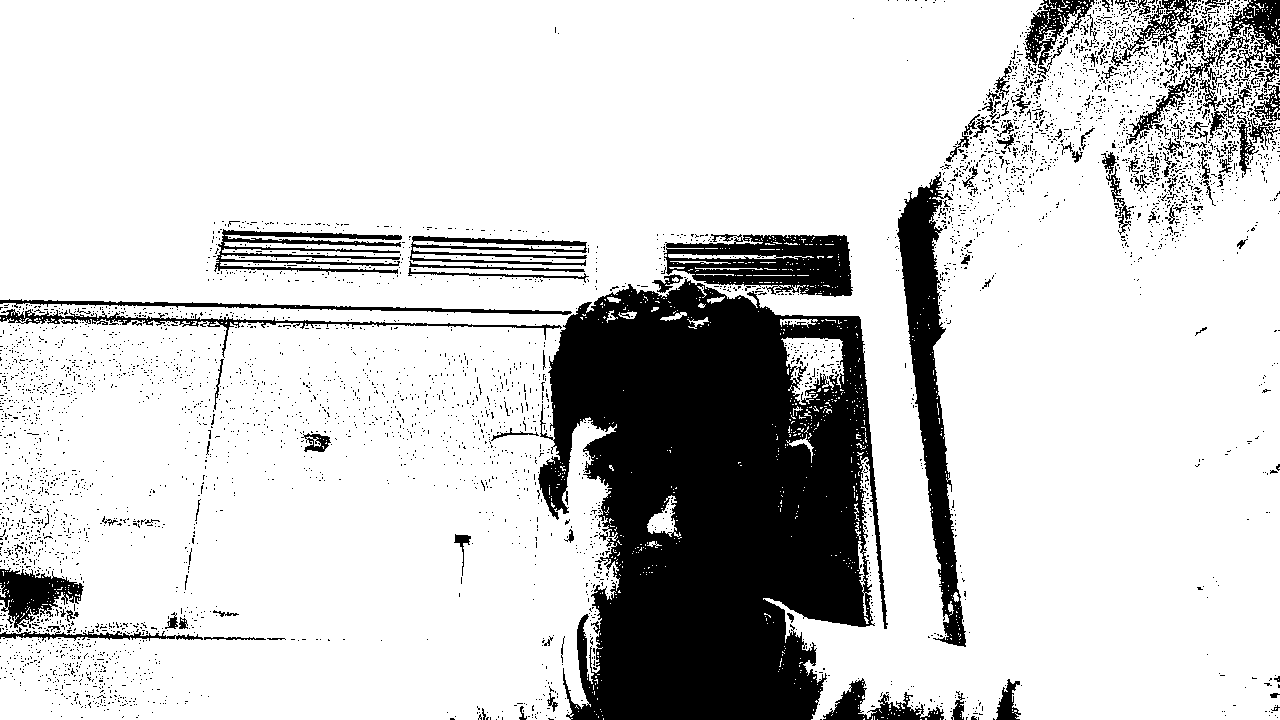
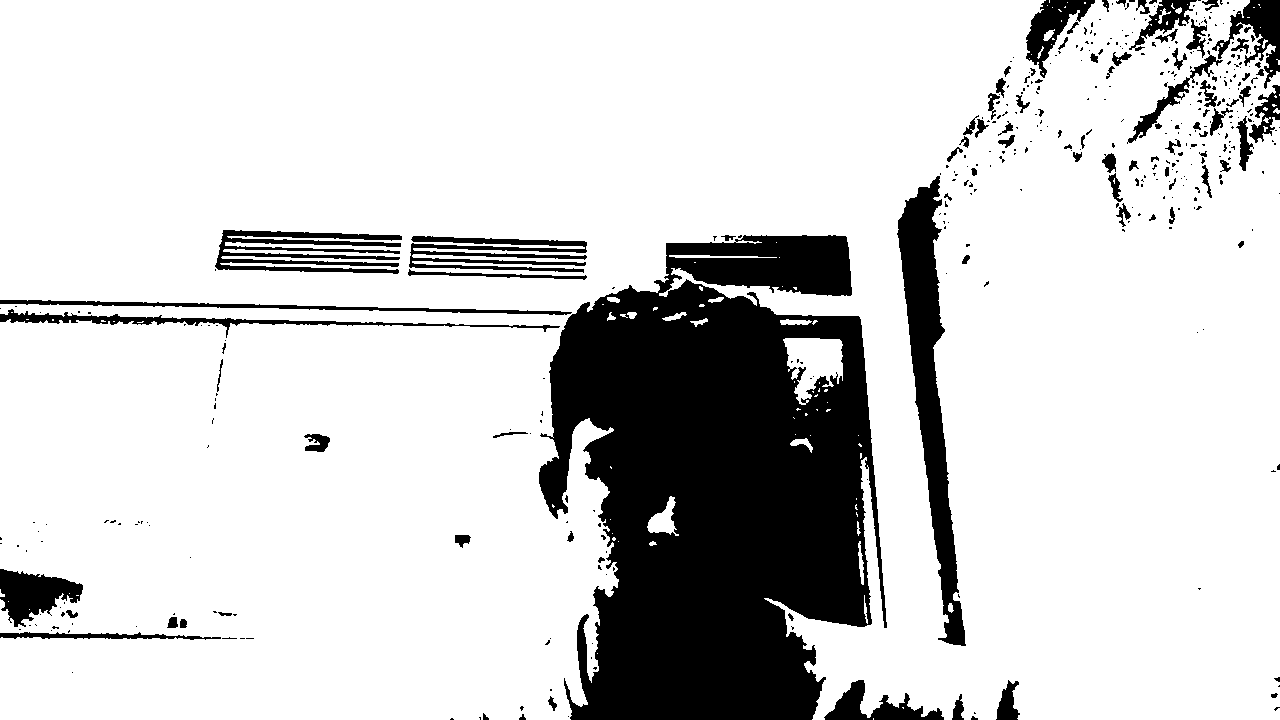
done binary

diff --git a/EEE444-lab1/app_gui.py b/EEE444-lab1/app_gui.py
@@ -2,6 +2,7 @@ import os, cv2
 import numpy as np
 from PyQt5 import QtWidgets, QtGui, QtCore
 from my_image_processing import MyProcess2, DEFAULT_IMAGES_DIR
+from binary import convert_to_binary
 
 APP_TITLE = "DIP Lab — Image Studio"
 
@@ -20,10 +21,12 @@ class MainWindow(QtWidgets.QMainWindow):
         # Buttons
         self.btnOpen = QtWidgets.QPushButton("Load Image")
         self.btnRun = QtWidgets.QPushButton("Apply")
+        self.btnBinary = QtWidgets.QPushButton("Make Binary")  # New button
         self.btnSave = QtWidgets.QPushButton("Save Result")
         hl = QtWidgets.QHBoxLayout()
         hl.addWidget(self.btnOpen)
         hl.addWidget(self.btnRun)
+        hl.addWidget(self.btnBinary)  # Add binary button
         hl.addWidget(self.btnSave)
         layout.addLayout(hl)
         
@@ -40,6 +43,7 @@ class MainWindow(QtWidgets.QMainWindow):
         # Connect signals
         self.btnOpen.clicked.connect(self.on_open)
         self.btnRun.clicked.connect(self.on_apply)
+        self.btnBinary.clicked.connect(self.on_binary)  # Connect binary button
         self.btnSave.clicked.connect(self.on_save)
     
     def on_open(self):
@@ -70,6 +74,17 @@ class MainWindow(QtWidgets.QMainWindow):
             show=False
         )
         
+        h, w, ch = self._after.shape
+        qimg = QtGui.QImage(self._after.data, w, h, ch*w, QtGui.QImage.Format_RGB888)
+        self.lblAfter.setPixmap(
+            QtGui.QPixmap.fromImage(qimg).scaled(400, 400, QtCore.Qt.KeepAspectRatio))
+    
+    def on_binary(self):
+        """Handle binary conversion button click."""
+        if self._before is None:
+            return
+            
+        self._after = convert_to_binary(self._before)
         h, w, ch = self._after.shape
         qimg = QtGui.QImage(self._after.data, w, h, ch*w, QtGui.QImage.Format_RGB888)
         self.lblAfter.setPixmap(

diff --git a/EEE444-lab1/binary.py b/EEE444-lab1/binary.py
@@ -1,0 +1,6 @@
+import cv2
+
+def convert_to_binary(img, threshold=127):
+    gray = cv2.cvtColor(img, cv2.COLOR_RGB2GRAY) if len(img.shape) == 3 else img
+    _, binary = cv2.threshold(gray, threshold, 255, cv2.THRESH_BINARY)
+    return cv2.cvtColor(binary, cv2.COLOR_GRAY2RGB)
